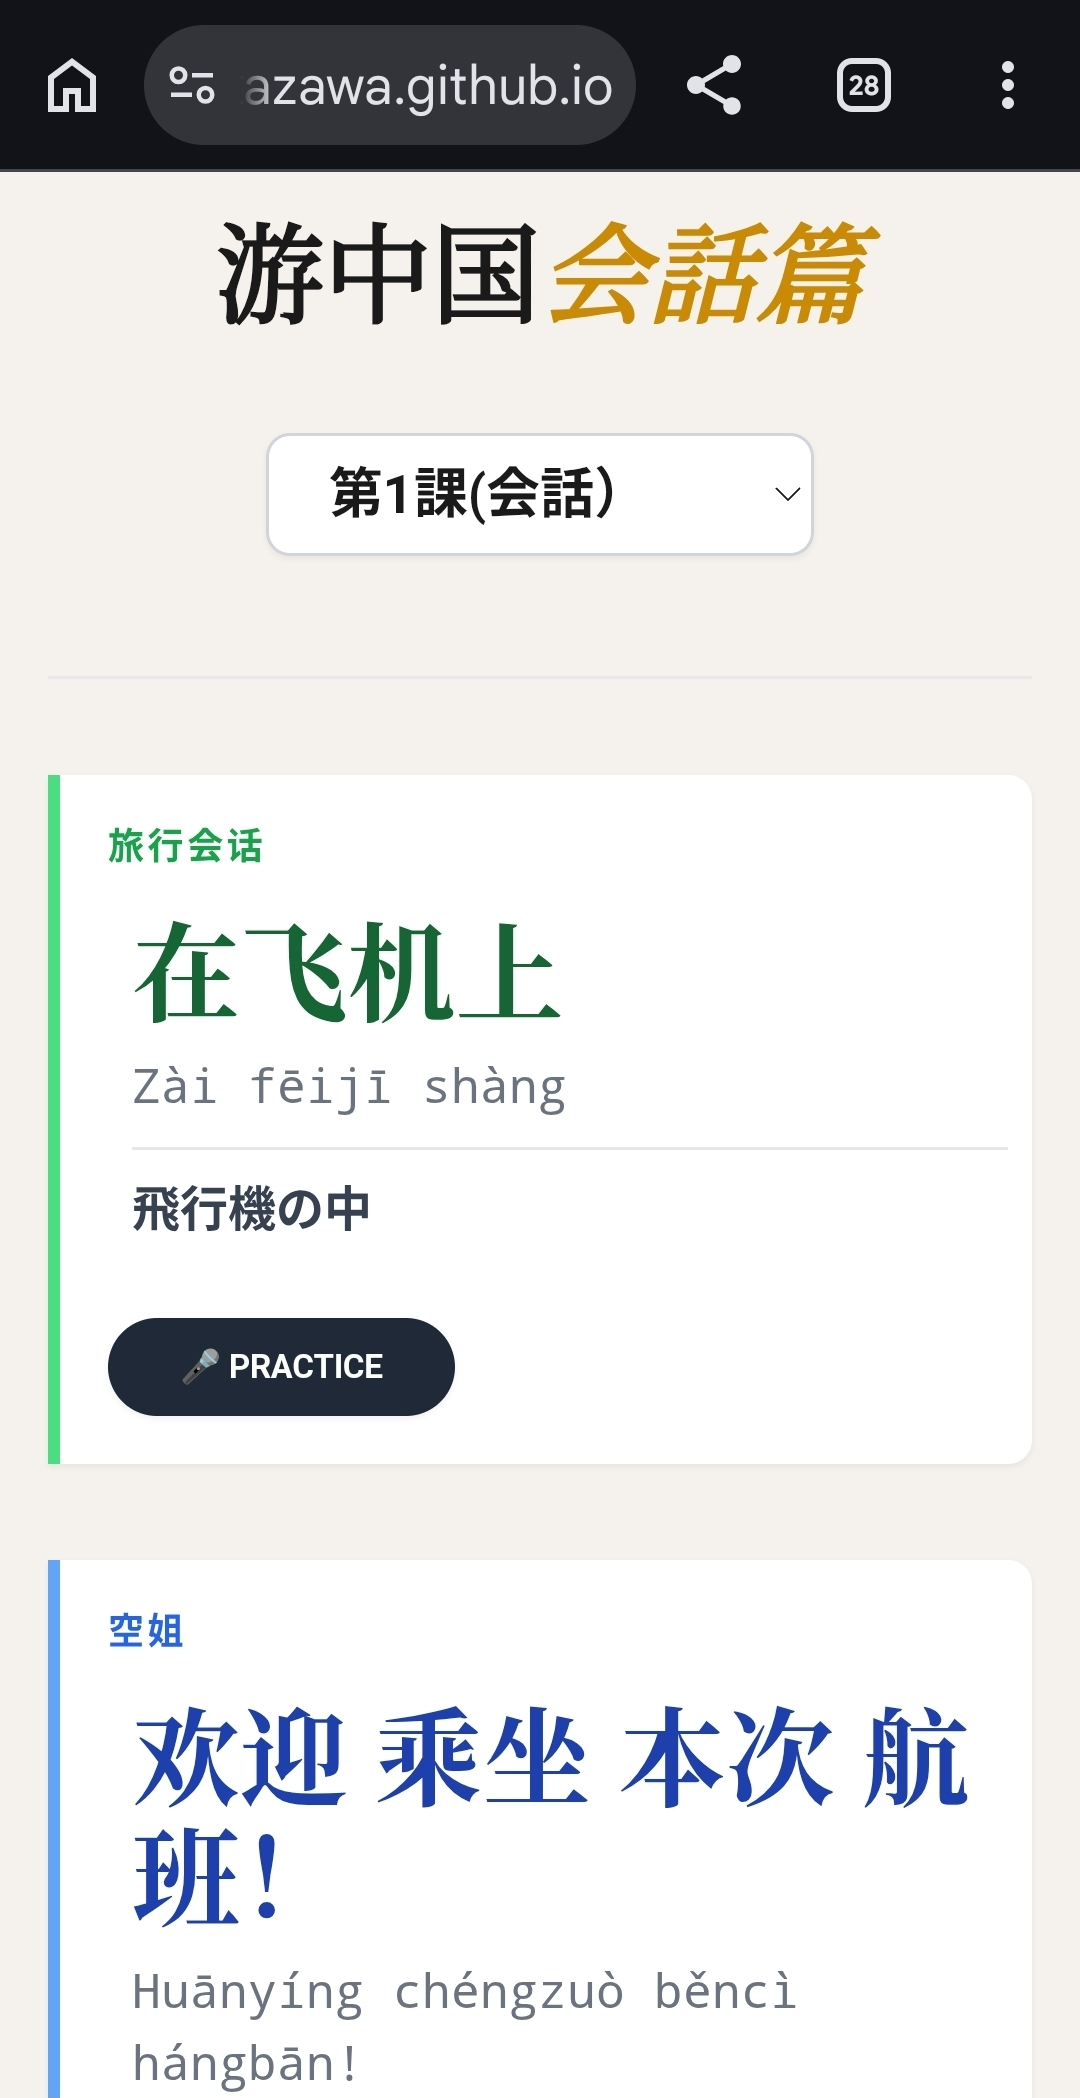
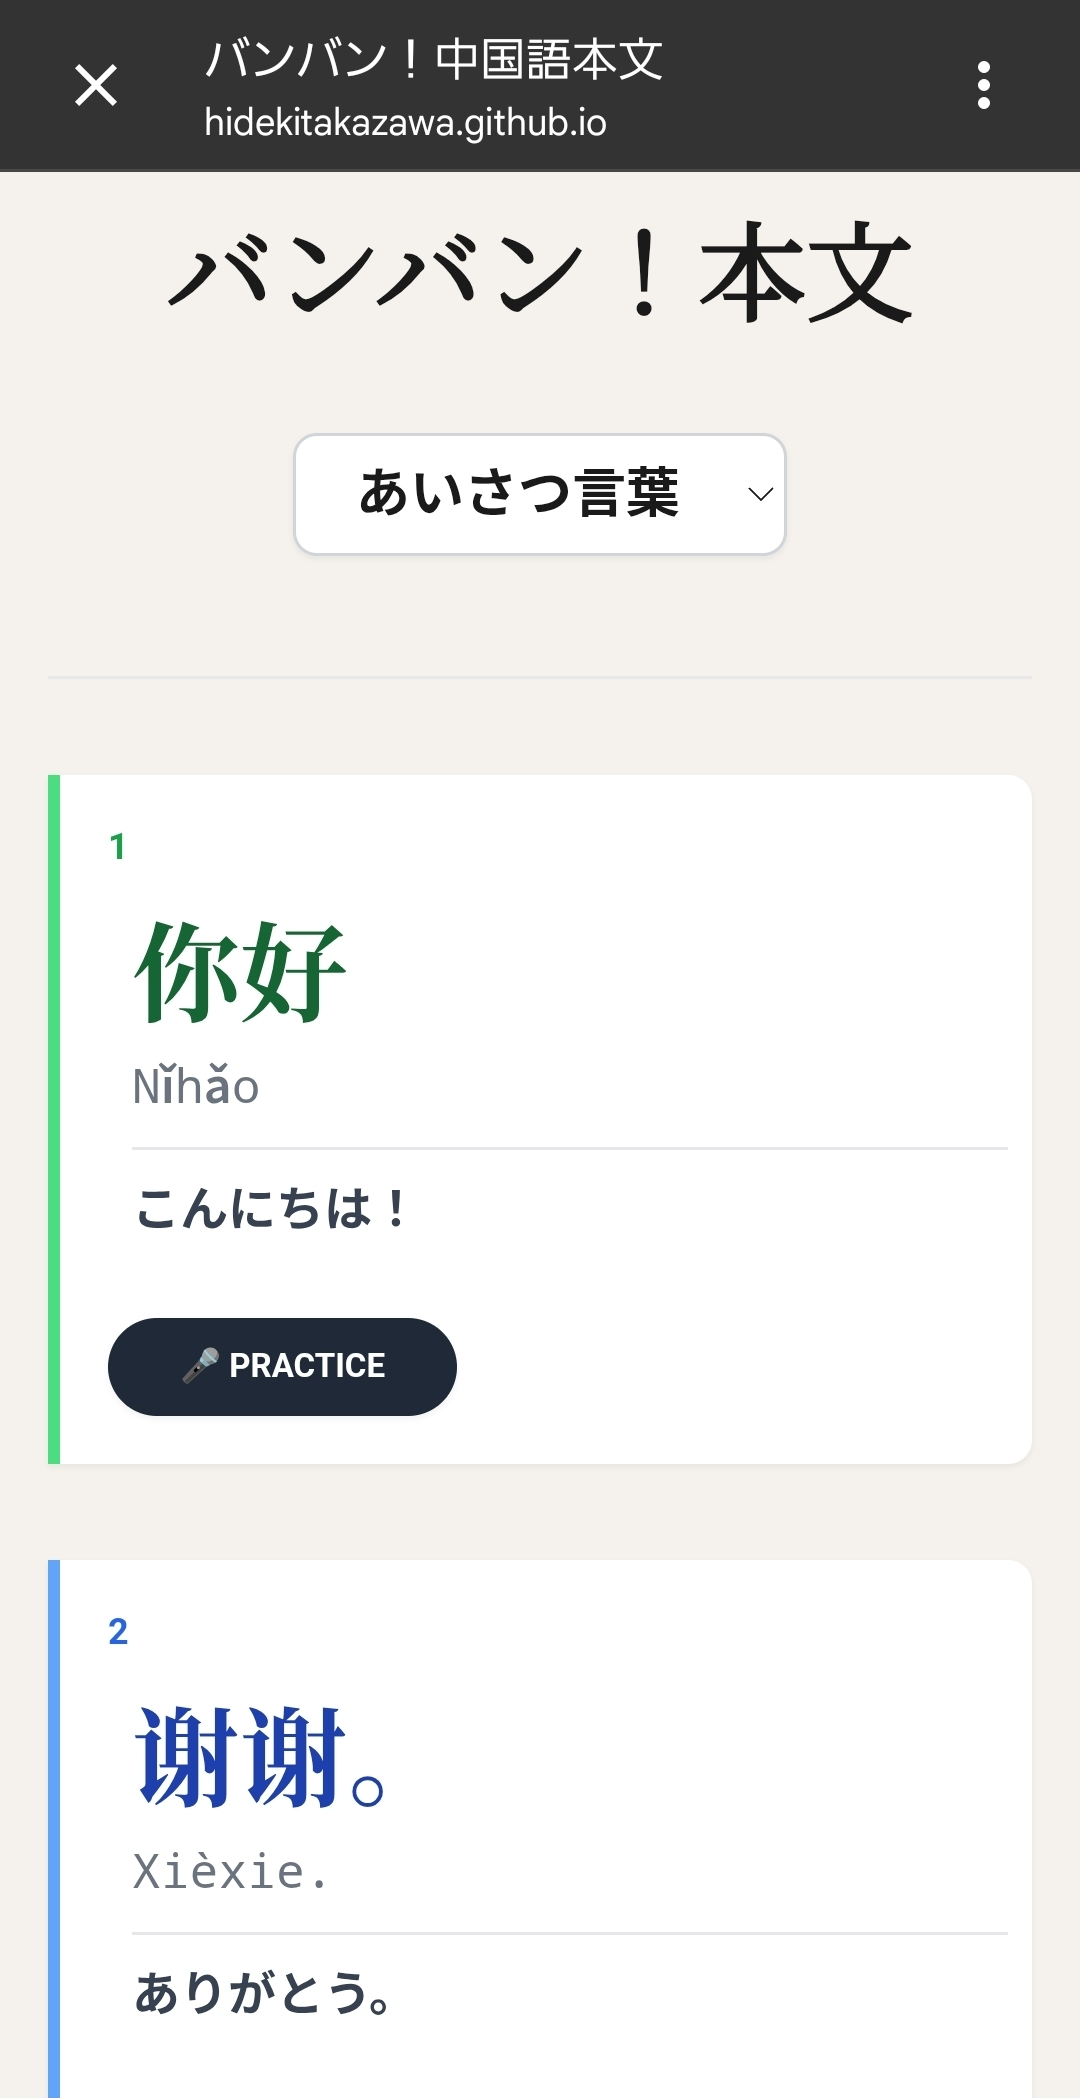
画像変更

diff --git a/service-worker.js b/service-worker.js
@@ -1,5 +1,5 @@
 // キャッシュするファイルの名前とバージョンを定義
-const CACHE_NAME = 'banbanmenu-app-showcase-v7';
+const CACHE_NAME = 'banbanmenu-app-showcase-v9';
 // キャッシュするファイルのリスト
 const urlsToCache = [
   './', // index.html を示す
